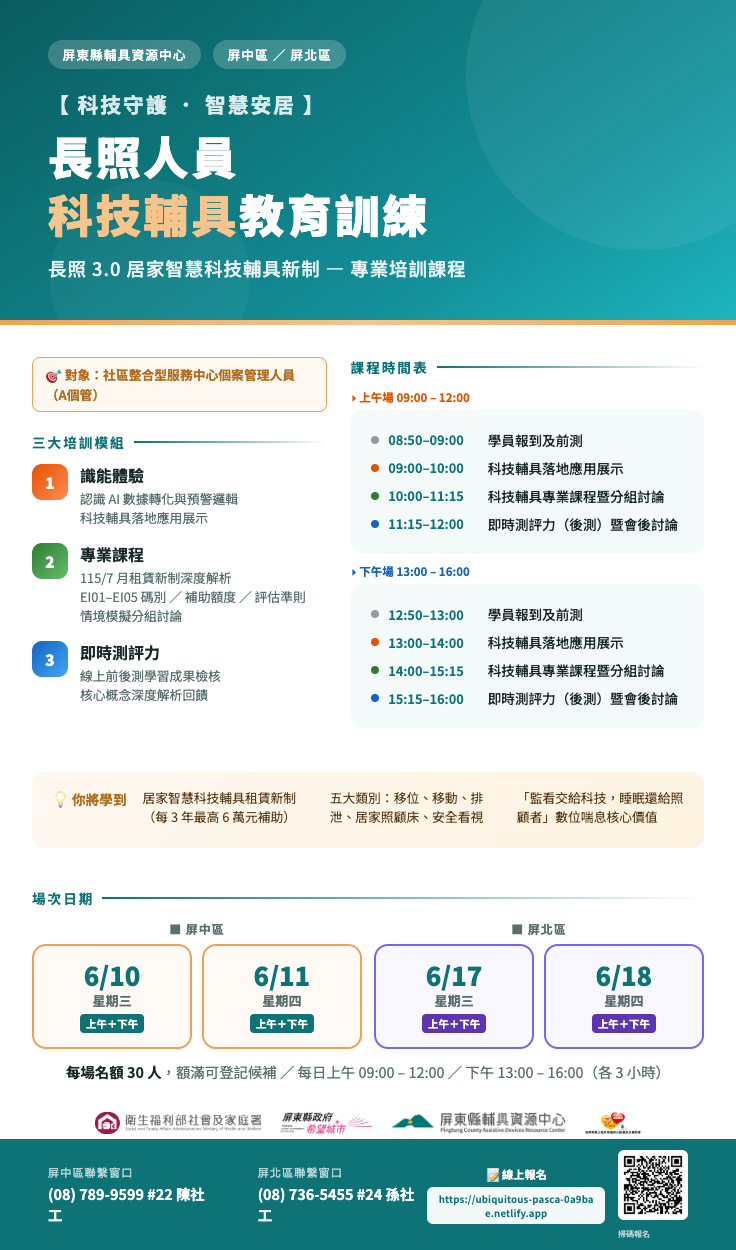
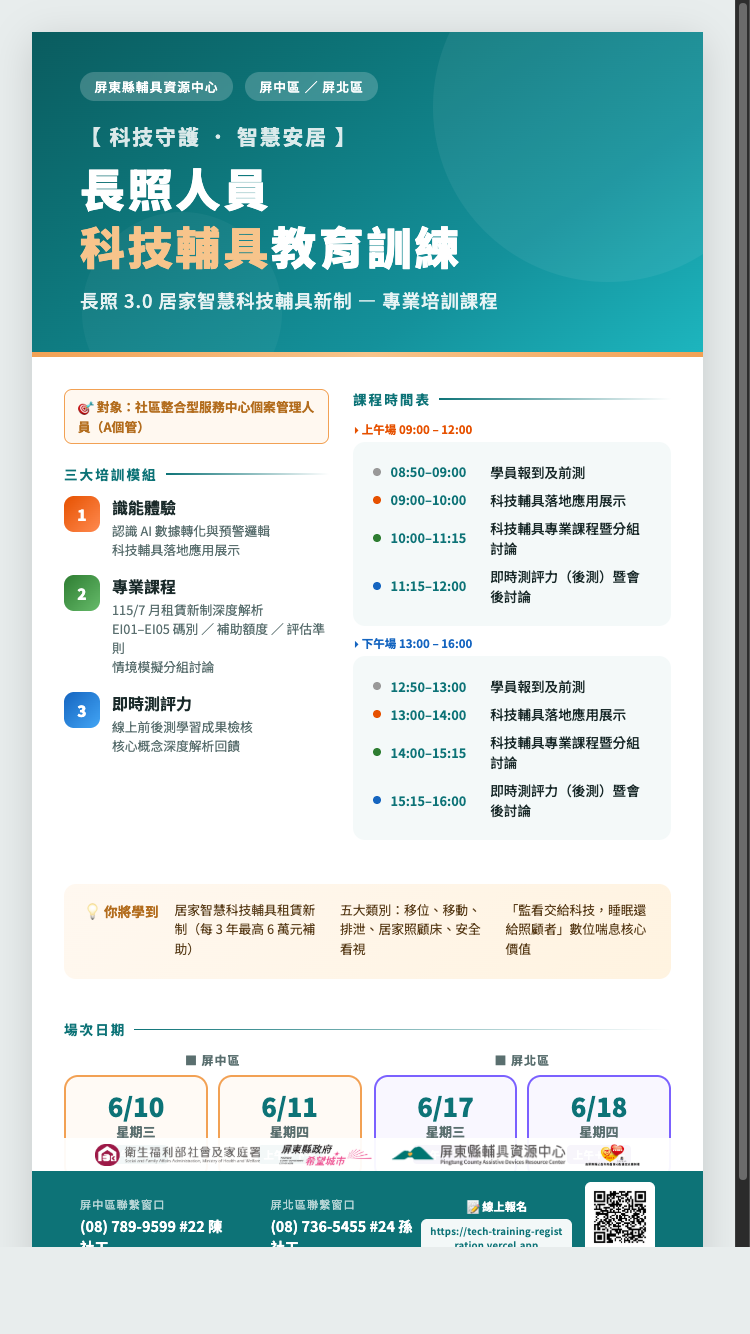
更新 DM 網址和 QR code 為 Vercel 網址

diff --git a/dm.html b/dm.html
@@ -648,10 +648,10 @@
     <div class="signup-qr-group">
       <div class="signup-info">
         <div class="signup-label">&#128221; 線上報名</div>
-        <div class="signup-url" id="signupUrl">https://ubiquitous-pasca-0a9bae.netlify.app</div>
+        <div class="signup-url" id="signupUrl">https://tech-training-registration.vercel.app</div>
       </div>
       <div class="qr-area">
[2 lines of base64/hex data omitted]
         <div style="font-size:0.5rem;color:rgba(255,255,255,0.7);margin-top:0.15rem;">掃碼報名</div>
       </div>
     </div>
